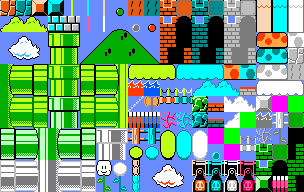
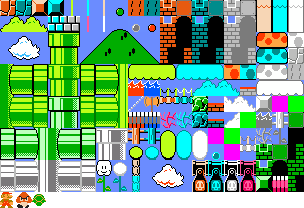
Begin adding ability to spawn entities from map

diff --git a/SBMDeluxe/Content/smb.tsx b/SBMDeluxe/Content/smb.tsx
@@ -1,6 +1,6 @@
 <?xml version="1.0" encoding="UTF-8"?>
-<tileset name="smb" tilewidth="16" tileheight="16" tilecount="228" columns="19">
- <image source="smbtiles.png" width="304" height="192"/>
+<tileset version="1.2" tiledversion="1.2.1" name="smb" tilewidth="16" tileheight="16" tilecount="247" columns="19">
+ <image source="smbtiles.png" width="304" height="208"/>
  <tile id="0" type="Solid"/>
  <tile id="2" type="Solid"/>
  <tile id="3" type="Solid"/>
@@ -26,4 +26,19 @@
  <tile id="64" type="NotSolid"/>
  <tile id="65" type="NotSolid"/>
  <tile id="66" type="NotSolid"/>
+ <tile id="228" type="Entity">
+  <properties>
+   <property name="EntityName" value="Player"/>
+  </properties>
+ </tile>
+ <tile id="229" type="Entity">
+  <properties>
+   <property name="EntityName" value="Goomba"/>
+  </properties>
+ </tile>
+ <tile id="230" type="Entity">
+  <properties>
+   <property name="EntityName" value="KoopaTroopa"/>
+  </properties>
+ </tile>
 </tileset>

diff --git a/SBMDeluxe/TileManager.cs b/SBMDeluxe/TileManager.cs
@@ -3,6 +3,7 @@ using Microsoft.Xna.Framework.Graphics;
 using System.Xml;
 using System.Collections.Generic;
 using Microsoft.Xna.Framework.Content;
+using System.Reflection;
 
 // Manages everything to do with Tiles
 // Loads from file, collisions, etc.
@@ -24,7 +25,7 @@ namespace SMBDeluxe
             loaded = false;
         }
 
-        public void LoadFromFile(string filename, ContentManager content)
+        public void LoadFromFile(string filename, ContentManager content, EntityManager entityManager)
         {
             string tilemap = null;
 
@@ -52,7 +53,8 @@ namespace SMBDeluxe
                 if (tilemap == null)
                     return;
 
-               var tileTypes = new Dictionary<int, TileType>();
+                var tileTypes = new Dictionary<int, TileType>();
+                var entityTypes = new Dictionary<int, string>();
 
                 using (XmlReader tilemapReader = XmlReader.Create("Content\\" + tilemap))
                 {
@@ -64,9 +66,11 @@ namespace SMBDeluxe
                     {
                         do
                         {
+                            int gid = System.Convert.ToInt32(tilemapReader.GetAttribute("id")) + 1;
                             TileType tileType = new TileType();
 
-                            switch (tilemapReader.GetAttribute("type"))
+                            string tileTypeName = tilemapReader.GetAttribute("type");
+                            switch (tileTypeName)
                             {
                                 case "Solid":
                                     tileType = TileType.Solid;
@@ -74,11 +78,17 @@ namespace SMBDeluxe
                                 case "NotSolid":
                                     tileType = TileType.NotSolid;
                                     break;
+                                case "Entity":
+                                    tileType = TileType.Entity;
+                                    tilemapReader.ReadToDescendant("property");
+                                    if(tilemapReader.GetAttribute("name") == "EntityName")
+                                        entityTypes.Add(gid, tilemapReader.GetAttribute("value"));
+                                    break;
                                 default:
                                     tileType = TileType.Solid;
                                     break;
                             }
-                            tileTypes.Add(System.Convert.ToInt32(tilemapReader.GetAttribute("id"))+1, tileType); // Tile id's are offset from gid's by one
+                            tileTypes.Add(gid, tileType); // Tile id's are offset from gid's by one
                         } while (tilemapReader.ReadToNextSibling("tile"));
                     }
                 }
@@ -110,11 +120,32 @@ namespace SMBDeluxe
                     } while (reader.ReadToNextSibling("tile"));
                 }
 
+                reader.ReadToFollowing("objectgroup");
+                if (reader.ReadToDescendant("object"))
+                {
+                    do
+                    {
+                        int gid = System.Convert.ToInt32(reader.GetAttribute("gid"));
+                        Vector2 pos = new Vector2(System.Convert.ToInt32(reader.GetAttribute("x")) - 16, System.Convert.ToInt32(reader.GetAttribute("y")) - 16);
+
+                        if (entityTypes.ContainsKey(gid))
+                        {
+                            // If we come across a player, change position don't spawn it
+                            if (entityTypes[gid] == "Player")
+                                entityManager.SetPlayerPos(pos);
+                            // Spawn based on name provided
+                            else
+                                entityManager.Add(entityTypes[gid]);
+                        }
+                    } while (reader.ReadToNextSibling("object"));
+
+                }
+
                 loaded = true;
             }
         }
 
-        public bool CheckCollision(FloatRect objRect, FloatRect camera)
+        public bool CheckCollision(FloatRect objRect, FloatRect camera = null)
         {
             foreach(var tile in tiles)
             {

diff --git a/SBMDeluxe/EntityManager.cs b/SBMDeluxe/EntityManager.cs
@@ -17,15 +17,17 @@ namespace SMBDeluxe
         private bool added = false; // Entity added flag
         private Entity player; // Keep track of the player
         private AnimManager animManager;
+        private TileManager tileManager;
 
         public ContentManager contentManager { get; set; }
 
-        public EntityManager(ContentManager contentMgr, AnimManager animManagerRef)
+        public EntityManager(ContentManager contentMgr, AnimManager animManagerRef, TileManager tileManagerRef)
         {
             entities = new List<Entity>();
             entityQueue = new List<Entity>();
             contentManager = contentMgr;
             animManager = animManagerRef;
+            tileManager = tileManagerRef;
         }
 
         // Add new entity
@@ -38,6 +40,14 @@ namespace SMBDeluxe
             // Single out and keep track of player
             if (entity is Entities.Player)
                 player = entity;
+        }
+
+        // Add based on name
+        public void Add(string entityName)
+        {
+            // I'll find a more dynamic way to do this later
+            if (entityName == "Goomba")
+                entityQueue.Add(new Entities.Goomba(tileManager, animManager));
         }
 
         // Check all collisions
@@ -102,6 +112,12 @@ namespace SMBDeluxe
             {
                 entity.Draw(spriteBatch, camera);
             }
+        }
+
+        public void SetPlayerPos(Vector2 pos)
+        {
+            player.Hitbox.X = pos.X;
+            player.Hitbox.Y = pos.Y;
         }
 
         private void MergeEntityLists()

diff --git a/SBMDeluxe/States/Gameplay.cs b/SBMDeluxe/States/Gameplay.cs
@@ -17,18 +17,16 @@ namespace SMBDeluxe.States
         {
             inputManager = new InputManager();
             tileManager = new TileManager();
-            entityManager = new EntityManager(contentMgr, animManager);
+            entityManager = new EntityManager(contentMgr, animManager, tileManager);
             animManager = new AnimManager();
         }
 
         public override void Start(ContentManager content)
         {
             player = new Entities.Player(tileManager, animManager);
-            player.animManager = animManager;
             entityManager.Add(player);
-            entityManager.Add(new Entities.Goomba(tileManager, animManager));
             entityManager.LoadContent();
-            tileManager.LoadFromFile("Content\\1-1.tmx", content);
+            tileManager.LoadFromFile("Content\\1-1.tmx", content, entityManager); // This will spawn entities from tilemap
             animManager.LoadFromFile("Content\\animations.xml");
         }
 

diff --git a/SBMDeluxe/Tile.cs b/SBMDeluxe/Tile.cs
@@ -5,12 +5,14 @@ namespace SMBDeluxe
     enum TileType
     {
         Solid,
-        NotSolid
+        NotSolid,
+        Entity
     }
 
     class Tile
     {
         public TileType Type { get; set; }
+        public string objectName { get; set; }
         public FloatRect Hitbox { get; set; }
         public static int TileWidth = 16;
         public static int TileHeight = 16;

diff --git a/SBMDeluxe/Entities/Player.cs b/SBMDeluxe/Entities/Player.cs
@@ -37,7 +37,7 @@ namespace SMBDeluxe.Entities
         {
             tileManager = tileManagerRef;
             animManager = animManagerRef;
-            Hitbox = new FloatRect(30, 30, 16, 16);
+            Hitbox = new FloatRect(0, 0, 16, 16);
         }
 
         public override void LoadContent(ContentManager content)
